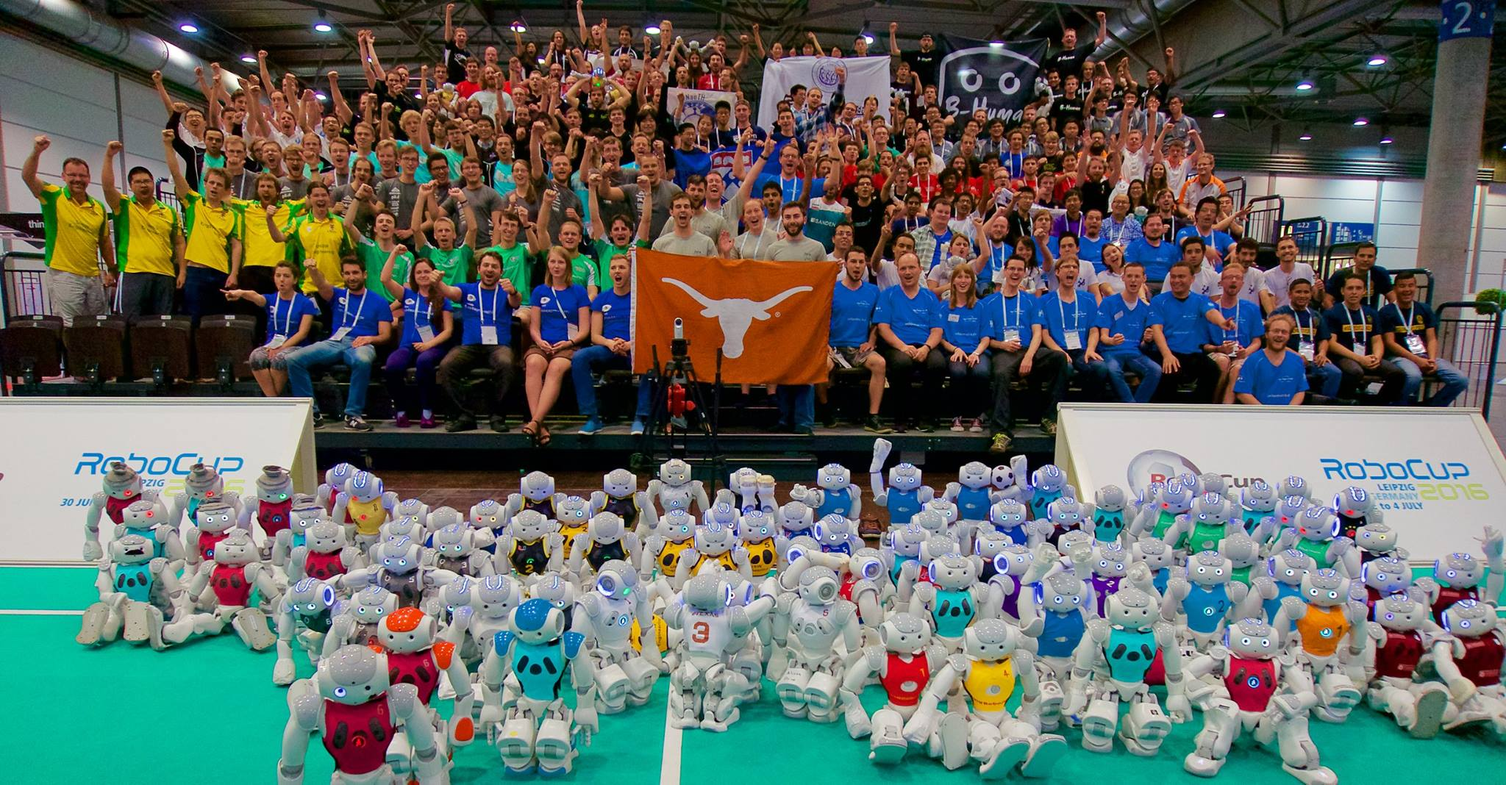
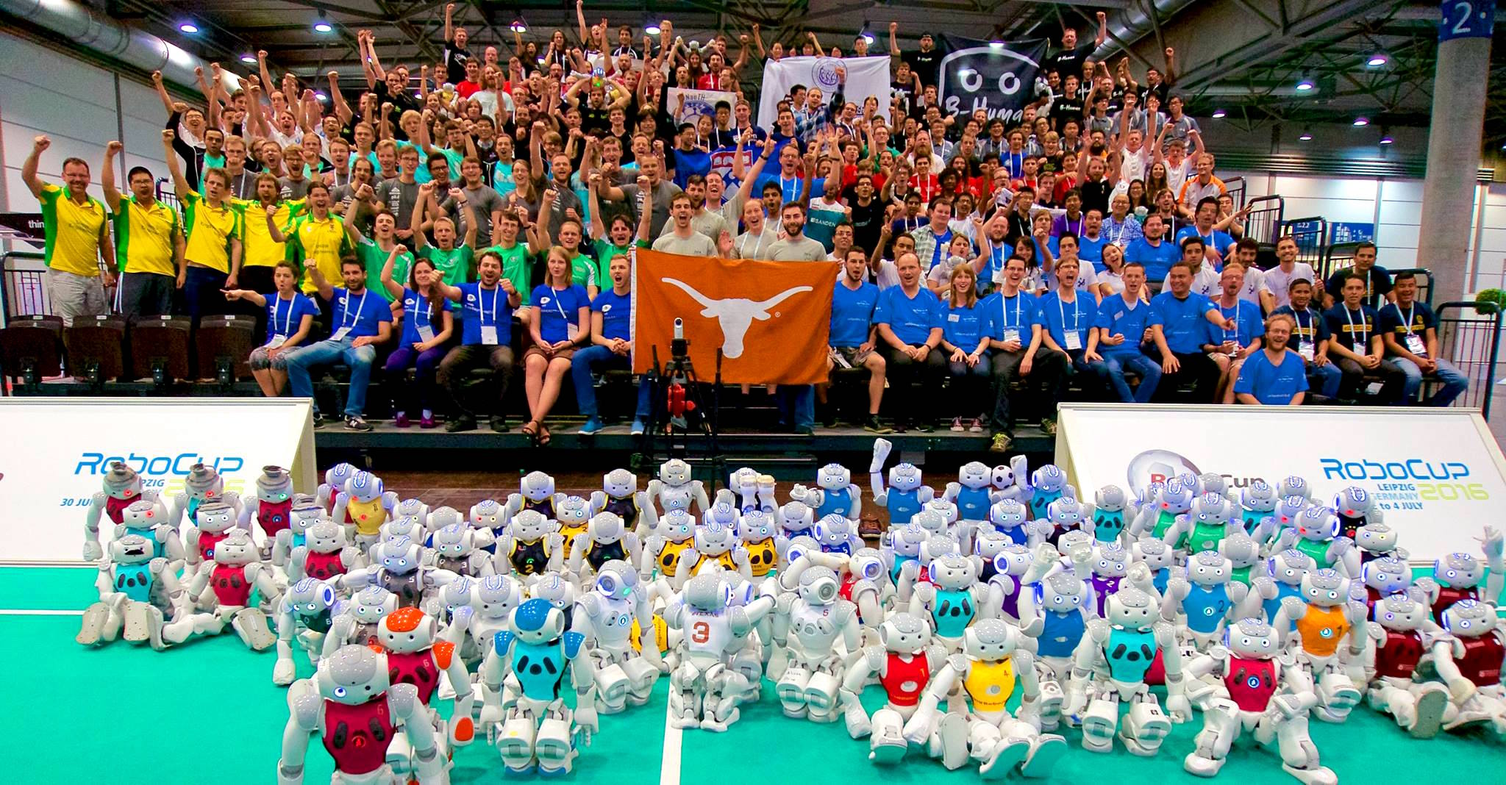
slightly modified image captions (robocup page). Brightened an image

diff --git a/projects/roboCup.html b/projects/roboCup.html
@@ -78,7 +78,7 @@
 
 					<figure>
 					    <img class="bodyPhoto" src="../assets/RoboCup/team_with_trophies.jpg" />
-					    <figcaption>Here's our team with our trophies.</figcaption>
+					    <figcaption>Our team with our trophies</figcaption>
 					</figure>
 
 				</div>
@@ -93,7 +93,7 @@
 
 					<figure>
 					    <img class="bodyPhoto" src="../assets/RoboCup/usopen_flag.jpg" />
-					    <figcaption>Here's our team with our flag and trophy.</figcaption>
+					    <figcaption>Here's our team with our flag after winning the US Open</figcaption>
 					</figure>
 				</div>
 
